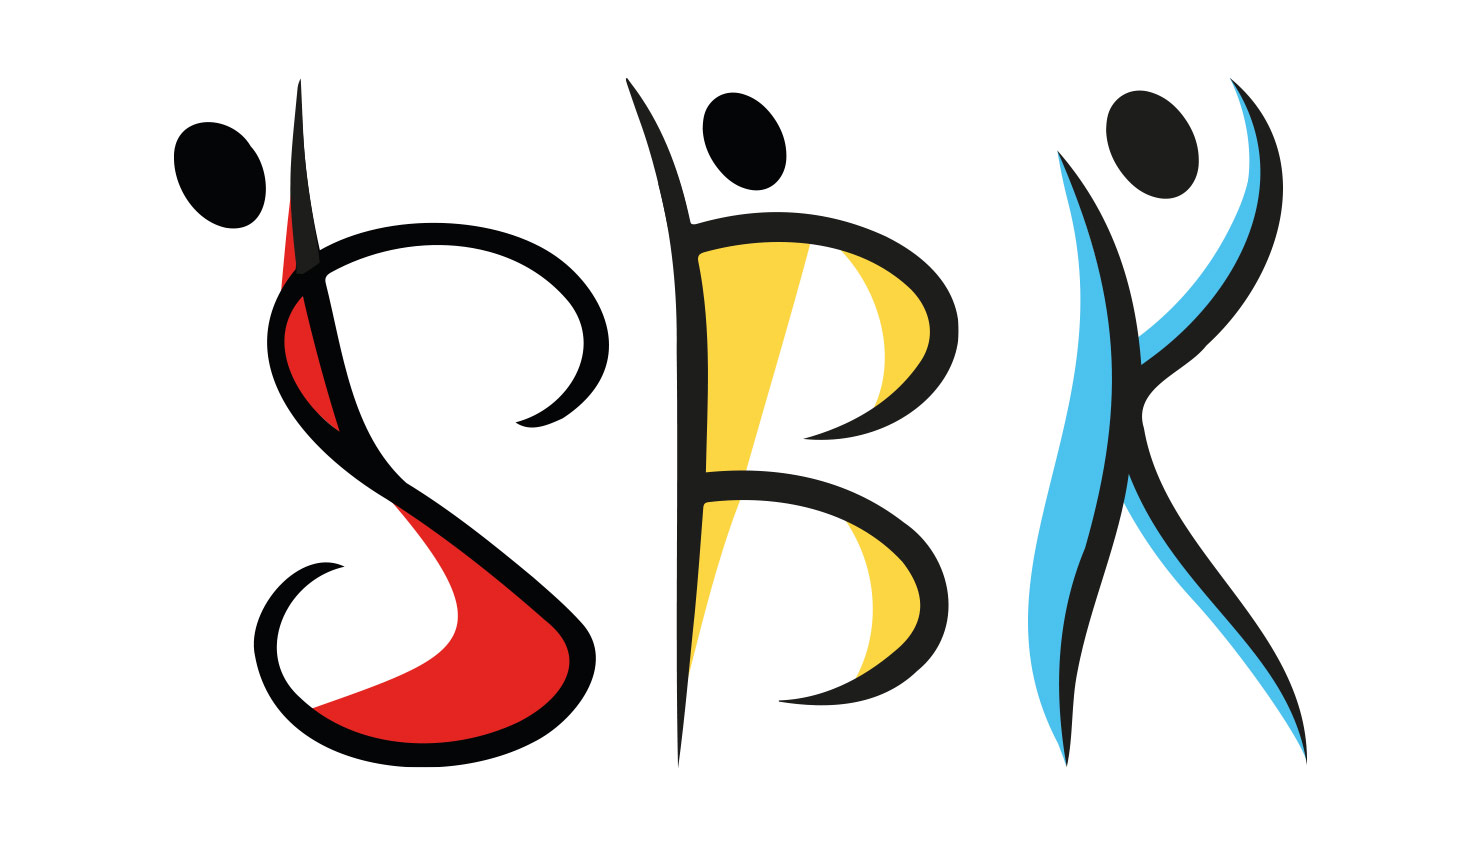
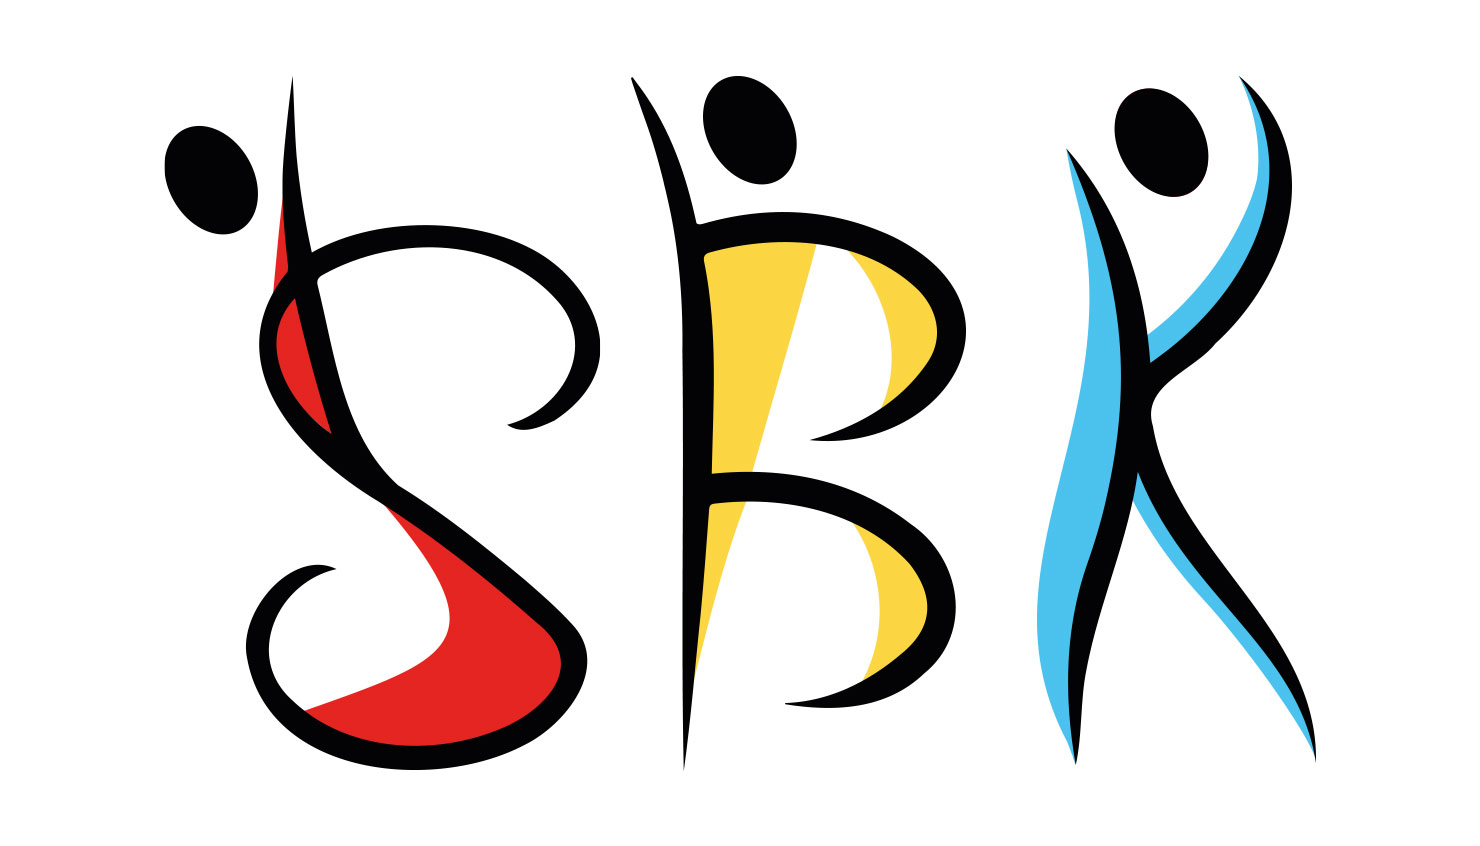
dfdf

diff --git a/SBK.html b/SBK.html
@@ -43,13 +43,13 @@
 		<div id="grandconteneurproj">
 			<section id="introprojet">
 				<h2>
-					Mon logo, les origines
+					Graphisme dansant
 				</h2>
 				<h3>
 					Identitée visuelle
 				</h3>
 				<h4>
-					Illustrator
+					2023 - Illustrator
 				</h4>
 			</section>
 
@@ -60,40 +60,33 @@
 			<section class="contenuprojet">
 				<div class="ligneprojet">
 					<article class="deuxcolonnes">
-						Pour créer mon logo, j’ai voulu concevoir un symbole qui incarne mon identité, mes valeurs et mes influences graphiques. Inspirée par mes racines capverdiennes, j'ai intégré des éléments du motif traditionnel Pano di terra.
+					Pour Kizomba World, une plateforme en ligne de vente de billets pour des festivals de danse, j'ai travaillé sur la conception d'un logo adaptable. L’idée était de créer un design pouvant se décliner pour chaque style de danse proposé (salsa, kizomba, bachata), avec une couleur distincte pour chacun.
 					</article>
 				</div>
 
 				<div class="ligneprojet">
 					<article class="deuxcolonnes">
-						Le pano di terra est un tissu généralement fabriqué à la main 
-						sur des métiers à tisser. Il se caractérise 
-						par des motifs géométriques et des grilles. Utilisé dans des vêtements, des accessoires et des décorations, le Pano di terra est un symbole culturel fort pour les Capverdiens. 
-						Il représente leur histoire, leur identité, et leur 
-						savoir-faire artisanal, qui s’est transmis de génération 
-						en génération.
+						J’ai choisi de concevoir des silhouettes de figures dansantes, en partie colorées pour suggérer le mouvement et la fluidité de la danse.
 
 					</article>
 
 					<figure  class="deuxcolonnes">
-						<img src="images/02logo.jpg">
+						<img src="images/03SBK.jpg">
 					</figure>
 				</div>
 				<div class="ligneprojet">
 					
 					
 					<figure  class="deuxcolonnes">
-						<img src="images/03logo.jpg">
+						<img src="images/02SBK.jpg">
 					</figure>
 					<article class="deuxcolonnes">
-						Mon logo se compose d’un "S" en haut, fusionné avec un "D" avec des lignes entrelacées et une structure géométrique, rappelant l'idée de fils qui se croisent pour créer une unité. 
+						J'ai opté pour cette typographie à empattement fin, car ses empattements lui confèrent élégance et ses courbes lui apportent fluidité. Elle rappelle le mouvement et la précision, ce qui évoque bien l'univers de la danse. 
 					</article>
 				</div>
 			</section>
 
-			<figure id="ligneimages">
-						<img src="images/04logo.jpg">
-			</figure>
+			
 
 
 
@@ -113,40 +106,26 @@
 
 
 
-
-					<section class="contenuprojet">
-
-				<div class="ligneprojet">
-					<article class="deuxcolonnes">
-						Utiliser différentes couleurs permet de bien distinguer le tissage des lignes, d’où la nécessité des trois couleurs: le fond, les lettres (couleur plus claire) et le tissage (couleur plus sombre).
-
-					</article>
-
-					<figure  class="deuxcolonnes">
-						<img src="images/07logo.jpg">
-					</figure>
-				</div>
 
 
 				
 				
 				<div class="grandeligneprojet">
 						<figure id="grandeligneprojet">
-						<img src="images/06logo.png">
+						<img src="images/04SBK.jpg">
+						</figure>
+
+				</div>
+
+				<br>
+				<div class="grandeligneprojet">
+						<figure id="grandeligneprojet">
+						<img src="images/05SBK.jpg">
 						</figure>
 
 				</div>
 					
-				<div class="ligneprojet">	
-					<figure  class="deuxcolonnes">
-						<img src="images/08logo.png">
-					</figure>
-					<article class="deuxcolonnes">
-						Cette identité s’exprime également à travers mon propre motif, créé pour des déclinaisons. L’objectif est de rendre mon identité suffisamment forte pour se passer d’un logo, en permettant aux motifs de véhiculer ma marque de manière autonome.
-												
-					</article>
-				</div>
-
+				
 
 
 

diff --git a/graphisme.html b/graphisme.html
@@ -64,12 +64,12 @@
                 <!-- Article vide pour l'espace vide -->
             </article>
             <article class="zoomable">
-                <a href="DMDMprojettype.html">
+                <a href="teaserprojet.html">
                     <figure>
-                        <img src="images/DMDMvignette.jpg" alt="Dis-Moi dix mots"> <!-- Added alt attribute -->
+                        <img src="images/teaserVignette.jpg" alt="Teaser Journée portes ouvertes"> <!-- Added alt attribute -->
                     </figure>
-                    <h5>Dis-Moi dix mots</h5>
-                    <h6>2024 - Affiche animée</h6>
+                    <h5>Teaser Journée portes ouvertes</h5>
+                    <h6>2024 - Animation</h6>
                 </a>
             </article>
             <article class="zoomable">
@@ -95,13 +95,14 @@
                 </a>
             </article>
             <article class="zoomable">
-                <a href="teaserprojet.html">
+                <a href="DMDMprojettype.html">
                     <figure>
-                        <img src="images/teaserVignette.jpg" alt="Teaser Journée portes ouvertes"> <!-- Added alt attribute -->
+                        <img src="images/DMDMvignette.jpg" alt="Dis-Moi dix mots"> <!-- Added alt attribute -->
                     </figure>
-                    <h5>Teaser Journée portes ouvertes</h5>
-                    <h6>2024 - Animation</h6>
+                    <h5>Dis-Moi dix mots</h5>
+                    <h6>2024 - Affiche animée</h6>
                 </a>
+            </article>
             </article>
             <article>
                 <!-- Article vide pour l'espace vide -->

diff --git a/style/style.css b/style/style.css
@@ -98,24 +98,19 @@ figcaption{
   font-size: 100px;
 }
 footer{
-  position: fixed;
-  bottom: 20px;
+  
+font-size: 20px;
   width: 100vw;
-  z-index: 1001;
+  text-align: center;
+ padding: 10px 0px;
   font-family: sans-serif;
-}
-footer ul{
-  width: calc(100% - 40px);
-  margin: auto;
-  display: flex;
-  justify-content: space-between; 
-  font-family: sans-serif; 
-}
-footer ul li{
-  width: 50%;
-  font-family: sans-serif;
+  margin-top: 50;
+  color: grey;
 }
 
+footer a:hover {
+    text-decoration: underline; /* Soulignement au survol */
+}
 .titre{ 
 font-size: 100px;
  }
@@ -329,6 +324,7 @@ page projet
   width: 70vw;
   margin: auto;
   font-family: sans-serif;
+  font-size: ;
 }
 
 

diff --git a/Mutekprojet.html b/Mutekprojet.html
@@ -117,15 +117,15 @@
 		</div>
 		
 
-		<a href="mail to:serenadelgado2005@gmail.com"></a>
+		
 
 		<footer>
-			<ul>
-				<li> site web codé par Serena Delgado 2024
-				</li>
-				
-			</ul>
-		</footer>
+    <p>2024 - Serena Delgado <br> 
+        <a href="mailto:serenadelgado2005@gmail.com">
+            serenadelgado2005(at)gmail.com
+        </a>
+    </p>
+</footer>
 
 	</body>	
 </html>
